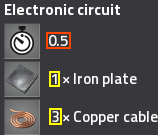
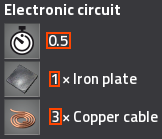
Changed to two-tone highlighting, can select machine

diff --git a/factorio/ratio.html b/factorio/ratio.html
@@ -8,19 +8,16 @@
 			{
 				name: 'Red Science',
 				time: 5,
-				aSpeed: 0.75,
 				divs: [
 					{
 						name: 'Copper Plate',
 						time: 3.5,
-						aSpeed: 2,
 						quantity: 1,
 						required: 1
 					},
 					{
 						name: 'Iron Gear',
 						time: 0.5,
-						aSpeed: 0.75,
 						quantity: 1,
 						required: 1
 					}
@@ -30,19 +27,16 @@
 			{
 				name: 'Electronic Circuit',
 				time: 0.5,
-				aSpeed: 0.75,
 				divs: [
 					{
 						name: 'Iron Plate',
 						time: 3.5,
-						aSpeed: 2,
 						quantity: 1,
 						required: 1
 					},
 					{
 						name: 'Copper Cable',
 						time: 0.5,
-						aSpeed: 0.75,
 						quantity: 2,
 						required: 3
 					}
@@ -59,15 +53,19 @@
 			'Copper Cable': 'cable'
 		};
 		const machineMap = {
-			'Red Science': 'ass',
-			'Electronic Circuit': 'ass',
-			'Iron Gear': 'ass',
-			'Copper Plate': 'furn',
-			'Iron Plate': 'furn',
-			'Copper Cable': 'ass'
+			'Red Science': [['Assembling Machine 1', 0.5], ['Assembling Machine 2', 0.75], ['Assembling Machine 3', 1.25]],
+			'Electronic Circuit': [['Assembling Machine 1', 0.5], ['Assembling Machine 2', 0.75], ['Assembling Machine 3', 1.25]],
+			'Iron Gear': [['Assembling Machine 1', 0.5], ['Assembling Machine 2', 0.75], ['Assembling Machine 3', 1.25]],
+			'Copper Plate': [['Stone Furnace', 1], ['Steel Furnace', 2], ['Electric Furnace', 2]],
+			'Iron Plate': [['Stone Furnace', 1], ['Steel Furnace', 2], ['Electric Furnace', 2]],
+			'Copper Cable': [['Assembling Machine 1', 0.5], ['Assembling Machine 2', 0.75], ['Assembling Machine 3', 1.25]]
+		};
+		const getMachineImage = (id, ingred) => {
+			return 'ratio_img/' + id + (ingred ? 'b' : 'a') + '.png';
 		};
 		
 		const getLowestWhole = (a, b) => {
+			if (a === b) return [1, 1];
 			if (a === Math.round(a) && b === Math.round(b)) return [a, b];
 			// numbers are never irrational
 			let denom = 2;
@@ -89,23 +87,29 @@
 			return 1;
 		};
 		
+		const machineText = (type, amt) => {
+			return type + (amt !== 1 && 's' || '');
+		};
+		
 		const applyRecipe = () => {
+			const machine1 = machineMap[curRecipe][recipeMachine];
+			const machine2 = machineMap[curIngredient][ingredientMachine];
 			document.getElementById('recipe1').src = 'ratio_img/' + iconMap[curRecipe] + '.png';
-			document.getElementById('recipe2').src = 'ratio_img/' + machineMap[curRecipe] + '1.png';
+			document.getElementById('recipe2').src = getMachineImage(machine1[0], false);
 			document.getElementById('ingred1').src = 'ratio_img/' + iconMap[curIngredient] + '.png';
-			document.getElementById('ingred2').src = 'ratio_img/' + machineMap[curIngredient] + '2.png';
+			document.getElementById('ingred2').src = getMachineImage(machine2[0], true);
 			
 			const recipe = recipeData.find(r => r.name === curRecipe);
 			const ingredient = recipe.divs.find(i => i.name === curIngredient);
 			document.getElementById('1spd1').innerHTML = recipe.time;
 			document.getElementById('1spd2').innerHTML = ingredient.time;
-			document.getElementById('1ass1').innerHTML = ingredient.aSpeed;
-			document.getElementById('1ass2').innerHTML = recipe.aSpeed;
+			document.getElementById('1ass1').innerHTML = machine2[1];
+			document.getElementById('1ass2').innerHTML = machine1[1];
 			document.getElementById('1qty1').innerHTML = ingredient.quantity;
 			document.getElementById('1qty2').innerHTML = ingredient.required;
 			
 			const wholeTime = getLowestWhole(recipe.time, ingredient.time);
-			const wholeSpeed = getLowestWhole(ingredient.aSpeed, recipe.aSpeed);
+			const wholeSpeed = getLowestWhole(machine2[1], machine1[1]);
 			const wholeQuantity = getLowestWhole(ingredient.quantity, ingredient.required);
 			document.getElementById('2spd1').innerHTML = wholeTime[0];
 			document.getElementById('2spd2').innerHTML = wholeTime[1];
@@ -119,57 +123,102 @@
 			
 			const common = lowestDenom(wholeTime[0] * wholeSpeed[0] * wholeQuantity[0],
 									   wholeTime[1] * wholeSpeed[1] * wholeQuantity[1]);
-			document.getElementById('4top').innerHTML = (wholeTime[0] * wholeSpeed[0] * wholeQuantity[0]) / common + 'x ' + curRecipe;
-			document.getElementById('4bot').innerHTML = (wholeTime[1] * wholeSpeed[1] * wholeQuantity[1]) / common + 'x ' + curIngredient;
+			const finalTop = (wholeTime[0] * wholeSpeed[0] * wholeQuantity[0]) / common;
+			const finalBottom = (wholeTime[1] * wholeSpeed[1] * wholeQuantity[1]) / common;
+			document.getElementById('4top').innerHTML = finalTop + 'x ' + curRecipe;
+			document.getElementById('4bot').innerHTML = finalBottom + 'x ' + curIngredient;
+			
+			document.getElementById('text1').innerHTML = finalTop + ' ' + machineText(machine1[0], finalTop);
+			document.getElementById('text2').innerHTML = finalBottom + ' ' + machineText(machine2[0], finalBottom);
 		};
 		
 		let curRecipe;
 		let curIngredient;
+		let recipeMachine = 0;
+		let ingredientMachine = 0;
 		window.onload = function() {
-			const sel1 = document.getElementById('sel1');
-			sel1.onchange = () => {
-				curRecipe = sel1.value;
-				while (sel2.options.length > 0) sel2.remove(0);
+			const sel1a = document.getElementById('sel1a');
+			const sel2a = document.getElementById('sel2a');
+			const sel1b = document.getElementById('sel1b');
+			const sel2b = document.getElementById('sel2b');
+			sel1a.onchange = () => {
+				curRecipe = sel1a.value;
+				while (sel2a.options.length > 0) sel2a.remove(0);
 				const recipe = recipeData.find(r => r.name === curRecipe);
 				recipe.divs.forEach(i => {
 					const opt = document.createElement('option');
 					opt.text = i.name;
-					sel2.add(opt);
+					sel2a.add(opt);
 				});
-				sel2.selectedIndex = recipe.default;
-				sel2.onchange();
+				sel2a.selectedIndex = recipe.default;
+				
+				while (sel1b.options.length > 0) sel1b.remove(0);
+				machineMap[curRecipe].forEach(m => {
+					const opt = document.createElement('option');
+					opt.text = m[0];
+					sel1b.add(opt);
+				});
+				sel1b.selectedIndex = recipeMachine;
+				
+				sel2a.onchange();
 			};
-			const sel2 = document.getElementById('sel2');
-			sel2.onchange = () => {
-				curIngredient = sel2.value;
+			sel2a.onchange = () => {
+				curIngredient = sel2a.value;
+				
+				while (sel2b.options.length > 0) sel2b.remove(0);
+				machineMap[curIngredient].forEach(m => {
+					const opt = document.createElement('option');
+					opt.text = m[0];
+					sel2b.add(opt);
+				});
+				sel2b.selectedIndex = ingredientMachine;
+				
+				applyRecipe();
+			};
+			sel1b.onchange = () => {
+				recipeMachine = sel1b.selectedIndex;
+				applyRecipe();
+			};
+			sel2b.onchange = () => {
+				ingredientMachine = sel2b.selectedIndex;
 				applyRecipe();
 			};
 			recipeData.forEach(r => {
 				const opt = document.createElement('option');
 				opt.text = r.name;
-				sel1.add(opt);
+				sel1a.add(opt);
 			});
-			sel1.value = 'Electronic Circuit';
-			sel1.onchange();
+			sel1a.value = 'Electronic Circuit';
+			sel1a.onchange();
 		};
 	</script>
 </head>
 <body style='background:#38383c;'>
 	<span style='display:flex'>
-		<span style='display:grid; width: 300px'>
-			<select class='rounded' id='sel1' style='width: 240px'>
+		<span style='width: 270px; margin-right: 20px'>
+			<select style='width: 270px; height: 35px' class='rounded' id='sel1a'>
 			</select>
-			<img style='position: absolute; top: 50px' id='recipe1' src=''>
-			<img style='position: absolute; top: 250px' id='recipe2' src=''>
+			<img id='recipe1' src=''>
+			<select style='width: 270px; height: 35px' class='rounded' id='sel1b'>
+			</select>
+			<img id='recipe2' src=''>
 		</span>
 		<span style='display:table'>
+			<p style='text-align:center; color: white; margin: 0'>Insert the numbers from the tooltips</p>
 			<table>
 				<tr>
+					<td><p style='text-align:center; color: white'>Recipe<br>Time</p></td>
+					<td></td>
+					<td><p style='text-align:center; color: white'>Crafting<br>Speed</p></td>
+					<td></td>
+					<td><p style='text-align:center; color: white'>Item<br>Quantity</p></td>
+				</tr>
+				<tr>
 					<td><div style='background-color: orangered' class='rounded' id='1spd1'/></td>
-					<td rowspan="3" style='width:25px; text-align:center'>●</td>
-					<td><div style='background-color: lightseagreen' class='rounded' id='1ass1'/></td>
-					<td rowspan="3" style='width:25px; text-align:center'>●</td>
-					<td><div style='background-color: cornflowerblue' class='rounded' id='1qty1'/></td>
+					<td rowspan="3" style='width:1em; text-align:center'>●</td>
+					<td><div style='background-color: forestgreen' class='rounded' id='1ass1'/></td>
+					<td rowspan="3" style='width:1em; text-align:center'>●</td>
+					<td><div style='background-color: forestgreen' class='rounded' id='1qty1'/></td>
 				</tr>
 				<tr>
 					<td><hr style='border: 2px inset grey'></td>
@@ -178,17 +227,17 @@
 				</tr>
 				<tr>
 					<td><div style='background-color: forestgreen' class='rounded' id='1spd2'/></td>
-					<td><div style='background-color: orange' class='rounded' id='1ass2'/></td>
-					<td><div style='background-color: yellow' class='rounded' id='1qty2'/></td>
+					<td><div style='background-color: orangered' class='rounded' id='1ass2'/></td>
+					<td><div style='background-color: orangered' class='rounded' id='1qty2'/></td>
 				</tr>
 			</table>
 			<p style='text-align:center; color: white'>Make the fractions whole</p>
 			<table>
 				<tr>
 					<td><div class='rounded' id='2spd1'/></td>
-					<td rowspan="3" style='width:25px; text-align:center'>●</td>
+					<td rowspan="3" style='width:1em; text-align:center'>●</td>
 					<td><div class='rounded' id='2ass1'/></td>
-					<td rowspan="3" style='width:25px; text-align:center'>●</td>
+					<td rowspan="3" style='width:1em; text-align:center'>●</td>
 					<td><div class='rounded' id='2qty1'/></td>
 				</tr>
 				<tr>
@@ -205,33 +254,36 @@
 			<p style='text-align:center; color: white'>Multiply them together</p>
 			<table>
 				<tr>
-					<td><div style='width:266px' class='rounded' id='3top'/></td>
+					<td><div style='width: calc(11em + 8px)' class='rounded' id='3top'/></td>
 				</tr>
 				<tr>
 					<td><hr style='border: 2px inset grey'></td>
 				</tr>
 				<tr>
-					<td><div style='width:266px' class='rounded' id='3bot'/></td>
+					<td><div style='width: calc(11em + 8px)' class='rounded' id='3bot'/></td>
 				</tr>
 			</table>
 			<p style='text-align:center; color: white'>Simplify if possible</p>
 			<table>
 				<tr>
-					<td><div style='background-color: violet; width:266px' class='rounded' id='4top'/></td>
+					<td><div style='background-color: orangered; width: calc(11em + 8px)' class='rounded' id='4top'/></td>
 				</tr>
 				<tr>
 					<td><hr style='border: 2px inset grey'></td>
 				</tr>
 				<tr>
-					<td><div style='background-color: blueviolet; width:266px' class='rounded' id='4bot'/></td>
+					<td><div style='background-color: forestgreen; width: calc(11em + 8px)' class='rounded' id='4bot'/></td>
 				</tr>
 			</table>
+			<p style='text-align:center; color: white'>For every <span id='text1' style='color: #f73'>abc</span>,<br>you need <span id='text2' style='color: lawngreen'>def</span>.</p>
 		</span>
-		<span style='display:grid; margin-left: 20px'>
-			<select class='rounded' id='sel2' style='width: 240px'>
+		<span style='margin-left: 20px; width: 270px'>
+			<select class='rounded' id='sel2a' style='width: 270px; height: 35px'>
 			</select>
-			<img style='position: absolute; top: 50px' id='ingred1' src=''>
-			<img style='position: absolute; top: 250px' id='ingred2' src=''>
+			<img id='ingred1' src=''>
+			<select class='rounded' id='sel2b' style='width: 270px; height: 35px'>
+			</select>
+			<img id='ingred2' src=''>
 		</span>
 	</span>
 </body>

diff --git a/factorio/ratio.css b/factorio/ratio.css
@@ -3,8 +3,8 @@
 	border-style: outset;
     border-radius: 10px;
     background-color: whiteSmoke;
-	height: 32px;
-	width: 64px;
+	height: 1.25em;
+	width: 3em;
 	text-align: center;
 	vertical-align: middle;
 	font-size: 24px;
